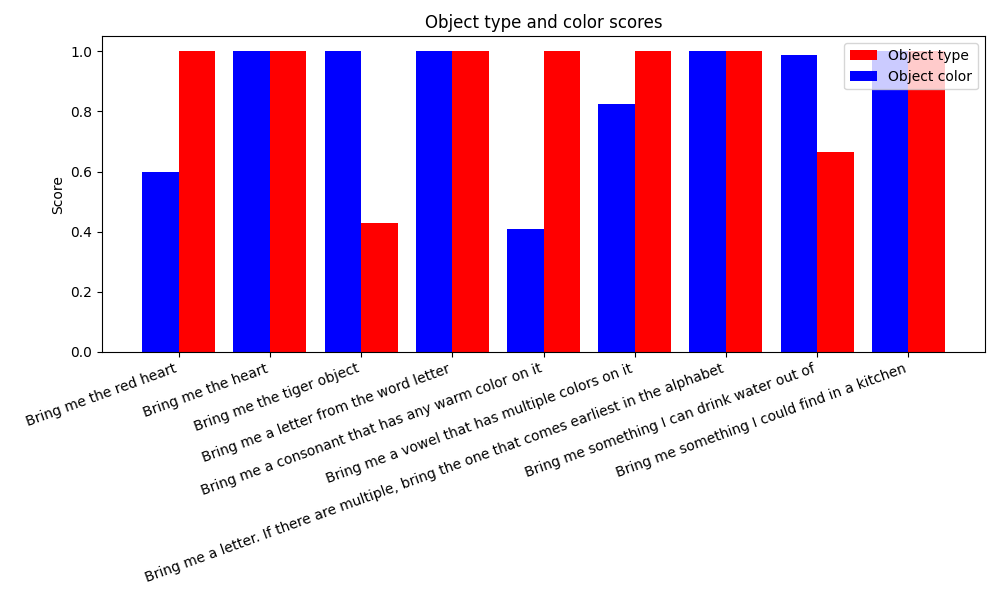
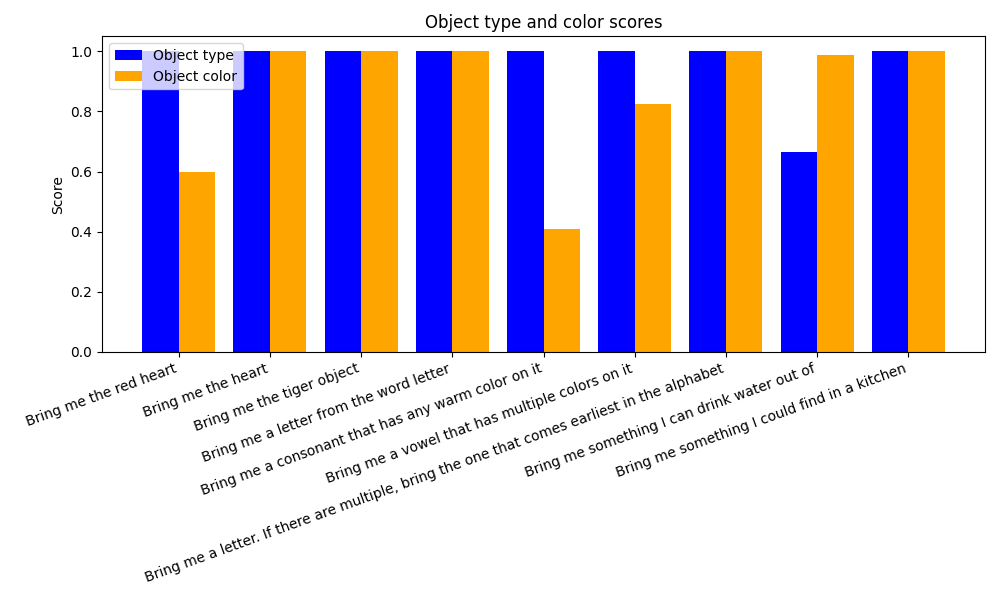
fix parentheses in gt annotations

diff --git a/lm_experiments/eval_rules.py b/lm_experiments/eval_rules.py
@@ -68,8 +68,8 @@ object_colors = [pertask_overlaps[obj]['object color'] for obj in objects]
 
 fig, ax = plt.subplots(figsize=(10, 6))
 
-ax.bar(objects, object_types, color='red', width=0.4, align='edge', label='Object type')
-ax.bar(objects, object_colors, color='blue', width=-0.4, align='edge', label='Object color')
+ax.bar(objects, object_types, color='blue', width=-0.4, align='edge', label='Object type')
+ax.bar(objects, object_colors, color='orange', width=0.4, align='edge', label='Object color')
 
 ax.legend()
 ax.set_xticklabels(objects, rotation=20, ha='right')
